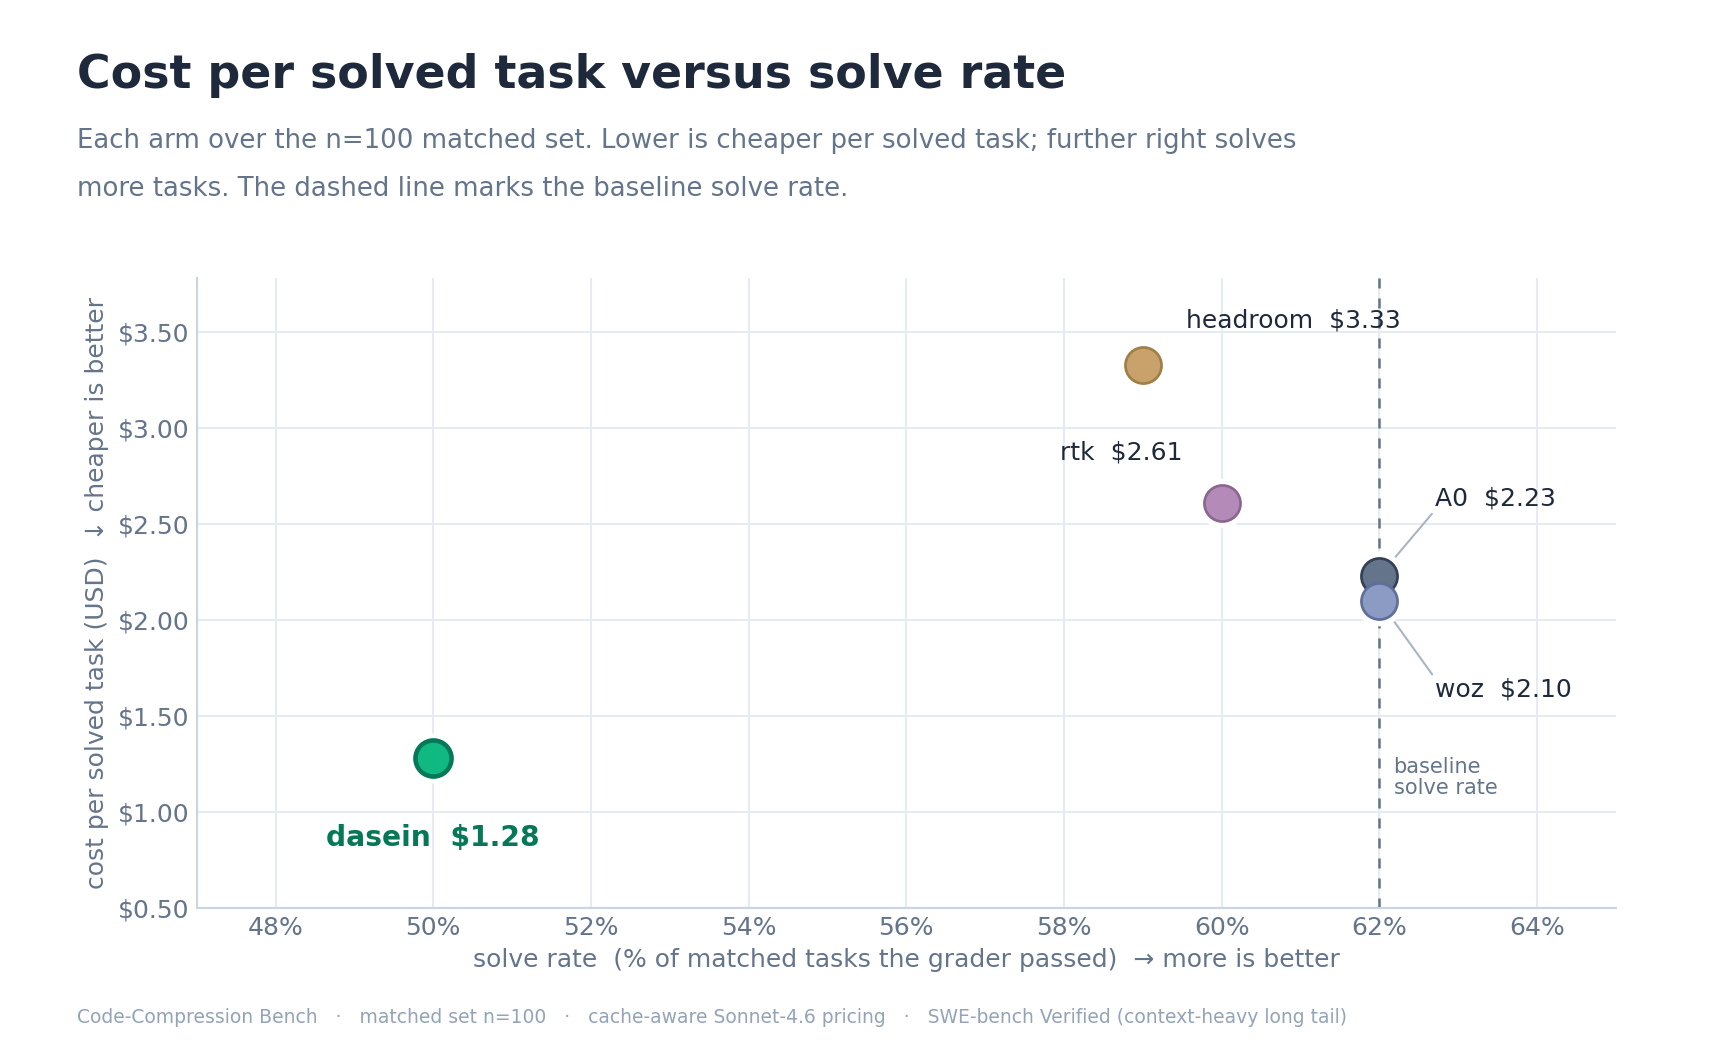
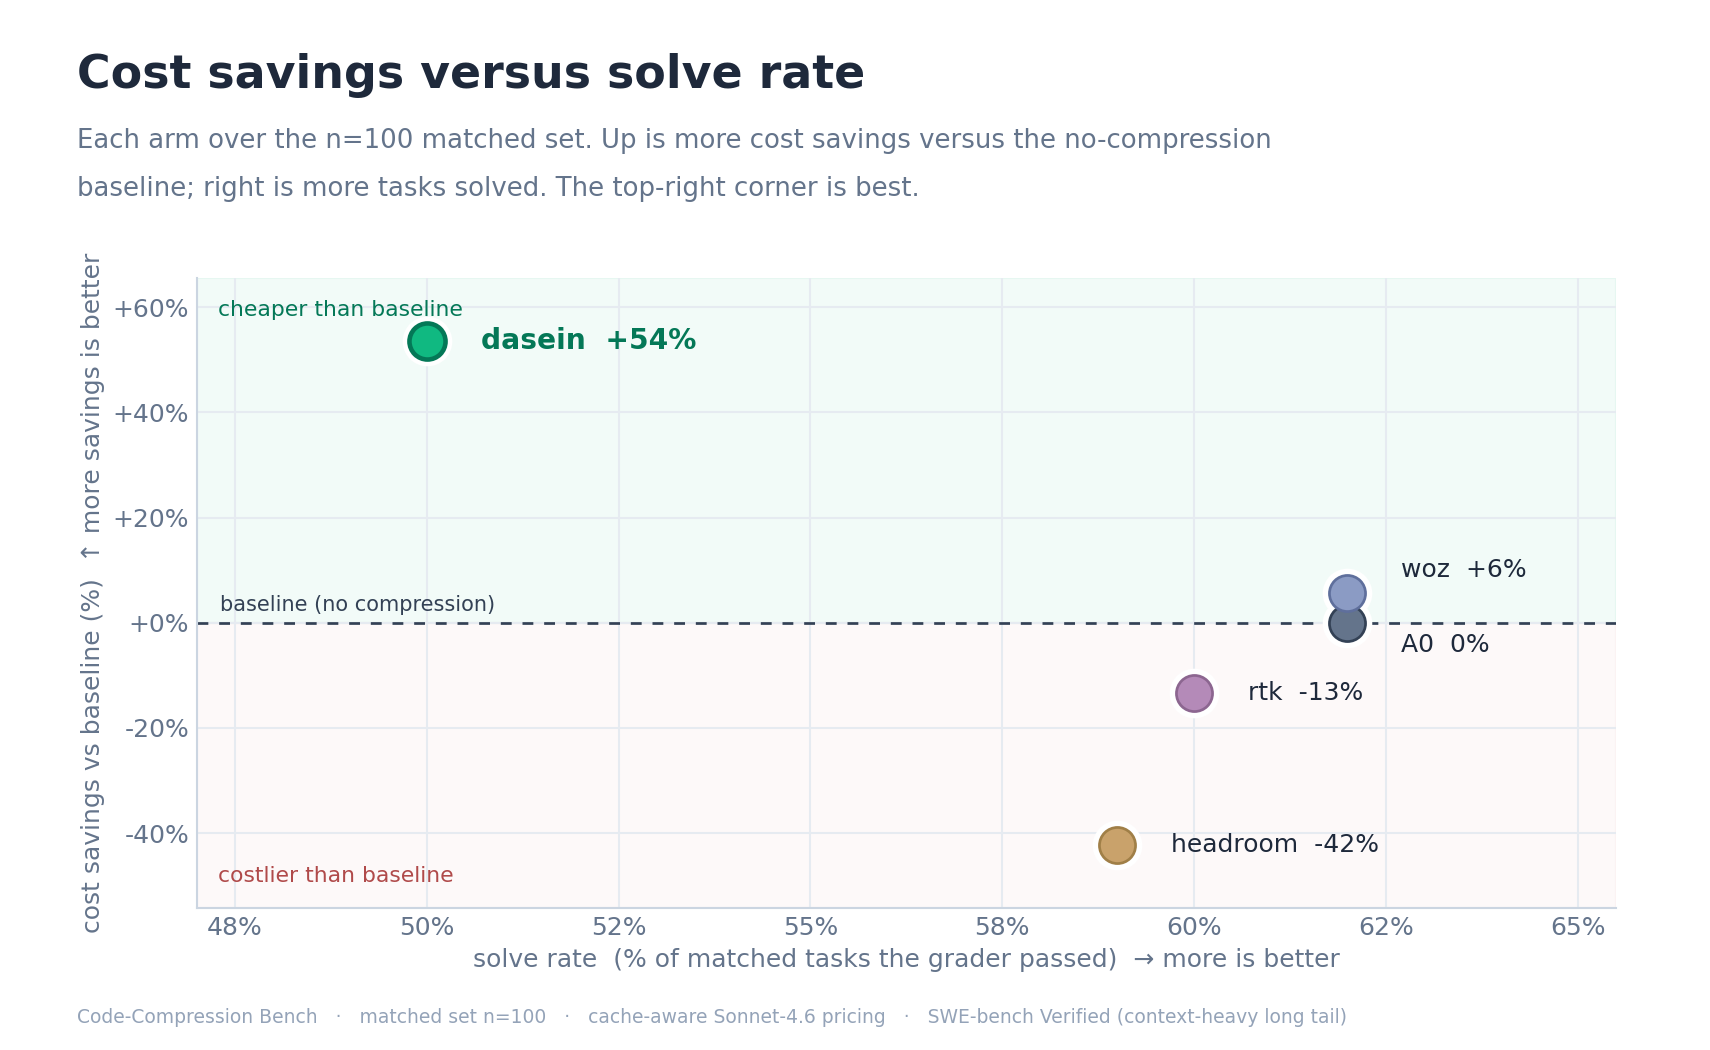
Reframe the scatter as savings vs solve rate; drop un-run arms from the dashboard
- Figure 8 + README + dashboard scatter now plot cost savings vs baseline (up)
  against solve rate (right), so the best position is the top-right corner.
  Dasein leads the savings axis (+54%) above the baseline line that RTK (-13%)
  and Headroom (-42%) sit below; the solve-rate gap is the one move to the corner.
- Dashboard: removed the never-run arms (compresr, edgee, bear-1.2) from the
  fact-vs-fiction table and the footnote  the dashboard now shows only measured
  arms; the full six-competitor analysis stays in FACT-VS-FICTION.md.

diff --git a/results/2026-06-24/dashboard.html b/results/2026-06-24/dashboard.html
@@ -108,7 +108,7 @@
     <tbody></tbody>
   </table>
   </div>
-  <p class="fo--note">Every arm runs the same model through the same scaffold; only the compression layer differs. Helper-model calls (woz's MCP subagents, Dasein's haiku scout/adjudicator) are kept out of these same-model columns as out-of-band overhead, so the comparison stays apples-to-apples. <i>compresr infra-failed on the bloated tasks and is excluded; edgee and bear-1.2 did not produce a graded set.</i></p>
+  <p class="fo--note">Every arm runs the same model through the same scaffold; only the compression layer differs. Helper-model calls (woz's exploration sub-agents, Dasein's scout/adjudicator hooks, both on a cheaper model) are kept out of these same-model columns as out-of-band overhead, so the comparison stays apples-to-apples.</p>
 
   <h2>Compare any metric</h2>
   <p class="h2sub">Pick a KPI — the bars re-sort best to worst. Dasein leads on cost, context, speed, and steps; two competitors cost more than the no-compression baseline. (Cache read:write is a diagnostic — higher is cheaper — not a metric Dasein tops; it explains Headroom's cost.)</p>
@@ -120,8 +120,8 @@
   </div>
   <p class="cap" id="cap"></p>
 
-  <h2>Cheap and correct</h2>
-  <p class="h2sub">Cost per solved task (down) versus solve rate (right), one point per arm. Dasein solves fewer raw tasks on this hard slice but at less than half the cost. Hover any point.</p>
+  <h2>Savings vs solve rate</h2>
+  <p class="h2sub">Cost savings versus the no-compression baseline (up) against solve rate (right) — the top-right corner is best. Dasein leads the savings axis at +54%, above the baseline line that RTK and Headroom sit below; the gap to the corner is its solve rate on this hard slice. Hover any point.</p>
   <div class="chartwrap">
     <div style="position:relative;width:100%;height:380px">
       <canvas id="scatter" role="img" aria-label="Scatter of cost per solved task versus solve rate for each arm"></canvas>
@@ -138,9 +138,6 @@
       <tr><td>woz</td><td class="claim">"Cut your Claude Code costs in half"; "30–40% faster" (an estimate)</td><td class="obs">−6% cost, −22% input, same solves as baseline, +30% <i>slower</i> wall-clock</td></tr>
       <tr><td>rtk</td><td class="claim">"60–90% fewer tokens on common dev commands"</td><td class="obs">+17% input, +13% cost; its hook only rewrites shell output — native Read/Grep/Glob bypass it</td></tr>
       <tr><td>headroom</td><td class="claim">"60–95% fewer tokens, same answers"; "better caching"</td><td class="obs">+5% input, +42% cost (most expensive); weakest cache reuse — its docs: "code passes through" uncompressed</td></tr>
-      <tr><td>compresr</td><td class="claim">"100× compression" (FinanceBench — single-document QA)</td><td class="obs">Proxy did not complete a live agent run in our harness</td></tr>
-      <tr><td>edgee</td><td class="claim">"Cut token costs up to 50%" (its own aggregate is ~20%)</td><td class="obs">No graded run; same shell-output approach as rtk, derived from it</td></tr>
-      <tr><td>bear-1.2</td><td class="claim">"10–40% fewer tokens" — but "not designed for code"</td><td class="obs">Access-gated and out of scope by the vendor's own statement; not evaluated</td></tr>
     </tbody>
   </table>
   </div>
@@ -229,7 +226,7 @@ const valuePlugin={id:"vlab",afterDatasetsDraw(c){if(c.canvas.id!=="bar")return;
   ctx.textBaseline="middle";ctx.fillText(curM.fmt(v),b.x+7,b.y);});ctx.restore();}};
 Chart.register(valuePlugin);
 const scatterLabels={id:"slab",afterDatasetsDraw(c){const{ctx}=c;ctx.save();ctx.textBaseline="middle";
-  const off={dasein:[13,2,"left"],headroom:[13,0,"left"],rtk:[13,0,"left"],A0:[11,-11,"left"],woz:[11,13,"left"]};
+  const off={dasein:[13,2,"left"],headroom:[13,0,"left"],rtk:[13,0,"left"],A0:[11,13,"left"],woz:[11,-11,"left"]};
   c.data.datasets.forEach((ds,i)=>{const p=c.getDatasetMeta(i).data[0];if(!p)return;const k=ORDER[i];const o=off[k]||[12,0,"left"];
   ctx.textAlign=o[2];ctx.fillStyle=k==="dasein"?"#047857":"#334155";ctx.font=(k==="dasein"?"700 ":"500 ")+"12px -apple-system,Segoe UI,sans-serif";
   ctx.fillText(ds.label,p.x+o[0],p.y+o[1]);});ctx.restore();}};
@@ -242,18 +239,19 @@ drawBar(METRICS[0]);
 new Chart(document.getElementById("scatter"),{
   type:"scatter",
   plugins:[scatterLabels],
-  data:{datasets:ORDER.map(k=>({label:ARMS[k].label,data:[{x:ARMS[k].solve_rate,y:ARMS[k].cost_per_solved}],
+  data:{datasets:ORDER.map(k=>({label:ARMS[k].label,data:[{x:ARMS[k].solve_rate,y:-ARMS[k].vs_a0_cost_pct}],
     backgroundColor:ARMS[k].c,borderColor:ARMS[k].e,borderWidth:k==="dasein"?2.5:1.2,
     pointRadius:9,pointHoverRadius:12}))},
   options:{responsive:true,maintainAspectRatio:false,animation:false,
     layout:{padding:14},
     plugins:{legend:{display:false},
-      tooltip:{callbacks:{label:c=>`${c.dataset.label}: ${c.parsed.x}% solved · $${c.parsed.y.toFixed(2)}/solved`}}},
+      tooltip:{callbacks:{label:c=>`${c.dataset.label}: ${c.parsed.x}% solved · ${c.parsed.y>=0?"+":""}${c.parsed.y.toFixed(0)}% vs baseline cost`}}},
     scales:{
       x:{title:{display:true,text:"solve rate  (% of matched tasks)  →  more is better",color:"#64748b"},
          min:46,max:66,grid:{color:"#eef2f6"},ticks:{color:"#64748b",callback:v=>v+"%"}},
-      y:{title:{display:true,text:"cost per solved task (USD)  ↓ cheaper is better",color:"#64748b"},
-         min:0.5,max:3.8,grid:{color:"#eef2f6"},ticks:{color:"#64748b",callback:v=>"$"+v.toFixed(2)}}}}
+      y:{title:{display:true,text:"cost savings vs baseline (%)  ↑ more savings is better",color:"#64748b"},
+         min:-54,max:66,grid:{color:c=>c.tick&&c.tick.value===0?"#94a3b8":"#eef2f6"},
+         ticks:{color:"#64748b",callback:v=>(v>0?"+":"")+v+"%"}}}}
 });
 </script>
 </body>

diff --git a/results/2026-06-24/build_figures.py b/results/2026-06-24/build_figures.py
@@ -188,57 +188,53 @@ def fig_input():
          {a: A[a]["input_tokens"] / 1e6 for a in A}, lambda v: f"{v:,.0f}M",
          better="low", xlabel="input tokens (millions)")
 
-# ── 8. cost vs solve-rate scatter ───────────────────────────────────────────
+# ── 8. savings vs solve-rate scatter ────────────────────────────────────────
 def fig_scatter():
     fig = plt.figure(figsize=(11.4, 7.0))
     ax = fig.add_axes([0.115, 0.135, 0.83, 0.60])
-    pts = {a: (A[a]["solve_rate"], A[a]["cost_per_solved"]) for a in A}
+    # x = solve rate (%, right is better); y = cost savings vs baseline (%, up is better)
+    pts = {a: (A[a]["solve_rate"], -A[a]["vs_a0_cost_pct"]) for a in A}
     xs = [p[0] for p in pts.values()]; ys = [p[1] for p in pts.values()]
-    xlo, xhi = min(xs) - 3, max(xs) + 3
-    ylo, yhi = 0.5, max(ys) + 0.45
+    xlo, xhi = min(xs) - 3, max(xs) + 3.5
+    ylo, yhi = min(ys) - 12, max(ys) + 12
     ax.set_xlim(xlo, xhi); ax.set_ylim(ylo, yhi)
-    # A0 solve-rate reference (label parked in the empty lower band, right of the line)
-    a0x = pts["A0"][0]
-    ax.axvline(a0x, color=SLATE, ls=(0, (4, 4)), lw=1.2, zorder=1)
-    ax.text(a0x + 0.18, 1.18, "baseline\nsolve rate", va="center", ha="left",
-            color=SLATE, fontsize=10, linespacing=1.1)
-    # points — uniform marker size for every arm (neutrality); dasein stands out by
-    # colour + position + bold label, NOT by a larger dot. A0/woz share x=62, so each
-    # label is parked clear of the cluster and tied to its dot with a thin leader line.
-    # white halo under every point so the A0/woz pair (shared x=62) reads as two
-    # distinct markers rather than one fused blob.
+    # baseline = zero savings; above it is cheaper than no compression, below is costlier
+    ax.axhspan(0, yhi, color=HERO, alpha=0.05, zorder=0)
+    ax.axhspan(ylo, 0, color=BAD, alpha=0.05, zorder=0)
+    ax.axhline(0, color=SLATE_DK, ls=(0, (4, 4)), lw=1.3, zorder=1)
+    ax.text(xlo + 0.3, 1.5, "baseline (no compression)", va="bottom", ha="left", color=SLATE_DK, fontsize=10)
+    ax.text(0.015, 0.965, "cheaper than baseline", transform=ax.transAxes, color=HERO_DARK, fontsize=10.5, va="top")
+    ax.text(0.015, 0.035, "costlier than baseline", transform=ax.transAxes, color=BAD_DK, fontsize=10.5, va="bottom")
+    # white halo + uniform markers
     for a, (x, yv) in pts.items():
         ax.scatter([x], [yv], s=520, color="white", edgecolor="white", zorder=4.4)
     for a, (x, yv) in pts.items():
         big = a == "dasein"
         ax.scatter([x], [yv], s=300, color=COL[a], edgecolor=EDGE[a],
                    linewidth=2.2 if big else 1.3, zorder=5)
-    place = {  # dx, dy, ha, va, leader?  (A0/woz share x=62 → both parked to the right, split in y)
-        "dasein":   (0.0, -0.34, "center", "top",    False),
-        "headroom": (0.55, 0.17, "left",   "bottom", False),
-        "rtk":      (-0.5, 0.20, "right",  "bottom", False),
-        "A0":       (0.7,  0.34, "left",   "bottom", True),
-        "woz":      (0.7, -0.40, "left",   "top",    True),
+    place = {  # dx, dy, ha, va  (A0 y=0 and woz y≈+6 both at x=62 → split vertically)
+        "dasein":   (0.7, 0.0, "left", "center"),
+        "woz":      (0.7, 2.0, "left", "bottom"),
+        "A0":       (0.7, -2.0, "left", "top"),
+        "rtk":      (0.7, 0.0, "left", "center"),
+        "headroom": (0.7, 0.0, "left", "center"),
     }
-    for a, (dx, dy, ha, va, leader) in place.items():
+    for a, (dx, dy, ha, va) in place.items():
         x, yv = pts[a]; big = a == "dasein"
-        lx, ly = x + dx, yv + dy
-        if leader:
-            ax.annotate("", xy=(x, yv), xytext=(lx, ly),
-                        arrowprops=dict(arrowstyle="-", color="#aab4c4", lw=1.0), zorder=4)
-        ax.text(lx, ly, f"{LABEL[a].split('  ')[0]}  ${yv:.2f}",
+        slab = "0%" if abs(yv) < 0.5 else f"{yv:+.0f}%"
+        ax.text(x + dx, yv + dy, f"{LABEL[a].split('  ')[0]}  {slab}",
                 ha=ha, va=va, fontsize=13.5 if big else 12,
                 fontweight="bold" if big else "normal",
                 color=HERO_DARK if big else INK, zorder=6)
     ax.set_xlabel("solve rate  (% of matched tasks the grader passed)  → more is better", fontsize=12, color=INK_SOFT)
-    ax.set_ylabel("cost per solved task (USD)  ↓ cheaper is better", fontsize=12, color=INK_SOFT)
+    ax.set_ylabel("cost savings vs baseline (%)  ↑ more savings is better", fontsize=12, color=INK_SOFT)
     from matplotlib.ticker import FuncFormatter
     ax.xaxis.set_major_formatter(FuncFormatter(lambda v, _: f"{v:.0f}%"))
-    ax.yaxis.set_major_formatter(FuncFormatter(lambda v, _: f"${v:.2f}"))
+    ax.yaxis.set_major_formatter(FuncFormatter(lambda v, _: f"{v:+.0f}%"))
     ax.grid(True, color=GRID, linewidth=1, zorder=0); ax.set_axisbelow(True)
     frame(ax); ax.spines["left"].set_visible(True); ax.spines["left"].set_color("#cbd5e1")
-    titleblock(fig, "Cost per solved task versus solve rate",
-               "Each arm over the n=100 matched set. Lower is cheaper per solved task; further right solves more tasks. The dashed line marks the baseline solve rate.")
+    titleblock(fig, "Cost savings versus solve rate",
+               "Each arm over the n=100 matched set. Up is more cost savings versus the no-compression baseline; right is more tasks solved. The top-right corner is best.")
     footer(fig)
     fig.savefig(os.path.join(OUT, "8_cost_vs_success.png")); plt.close(fig)
 

diff --git a/README.md b/README.md
@@ -106,17 +106,21 @@ expensive (+42%). Dasein's ratio (22.7) sits below the baseline's (40.4) for the
 carries far less cached context to begin with, so there is simply less cached prefix to re-read — fewer reads
 over a small, stable prefix, not more writes — and its bill still falls 54%.
 
-## Cost versus solve rate
+## Savings versus solve rate
 
 <p align="center">
-  <img src="results/2026-06-24/figures/8_cost_vs_success.png" width="760" alt="Cost per solved task versus solve rate; Dasein occupies the low-cost region.">
+  <img src="results/2026-06-24/figures/8_cost_vs_success.png" width="760" alt="Cost savings versus solve rate; Dasein leads the savings axis at +54%, above the baseline line that RTK and Headroom fall below.">
 </p>
 
-On this deliberately hard slice, Dasein solved 50/100 to the baseline's 62 — it trades a few solves for less
-than half the cost. That trade is exactly why the leaderboard ranks on cost per solved task rather than raw
-solve count: the cost-per-solved metric charges Dasein for the solves it gives up, and it still ranks first.
-Solve rates cluster between 50% and 62% across every arm, the baseline included; this is the long tail of
-SWE-bench Verified, chosen to stress context management, not a measure of whole-of-SWE-bench solve rate.
+Plotting cost savings (up) against solve rate (right) puts the best arm in the top-right corner. Dasein leads
+the savings axis outright at **+54%**, well clear of the baseline line that RTK (−13%) and Headroom (−42%)
+sit below. The one axis where it trails is solve rate: on this deliberately hard slice Dasein solved 50/100
+to the baseline's 62, trading a few solves for less than half the cost — which is why the leaderboard ranks
+on cost per solved task (the metric charges Dasein for the solves it gives up, and it still ranks first).
+Closing that solve-rate gap is the one move that would carry Dasein from the top-left into the top-right
+corner. Solve rates cluster between 50% and 62% across every arm, the baseline included; this is the long
+tail of SWE-bench Verified, chosen to stress context management, not a measure of whole-of-SWE-bench solve
+rate.
 
 ## Every measured value
 